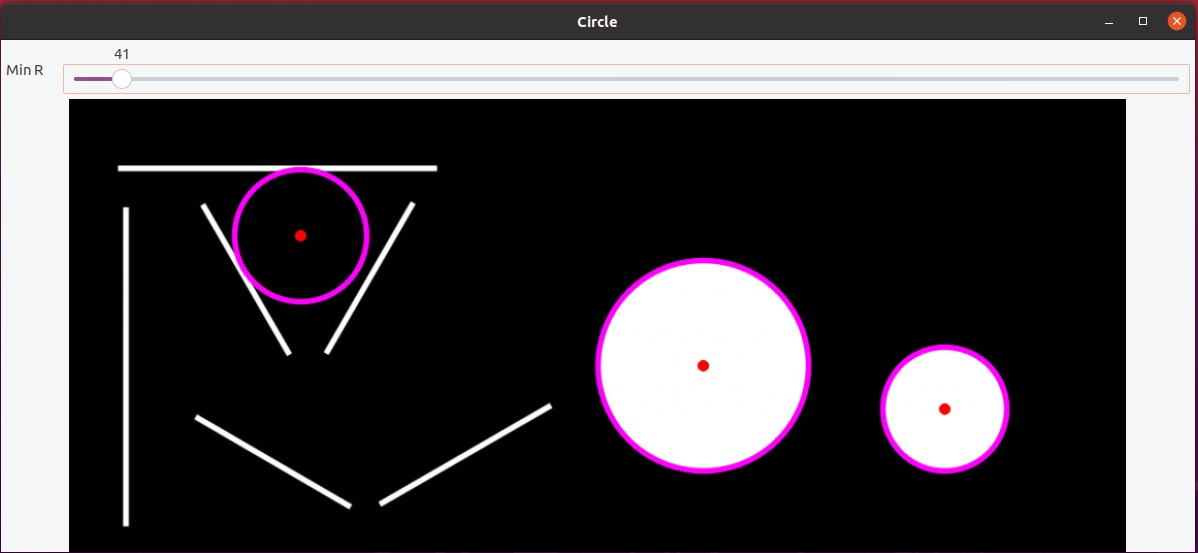
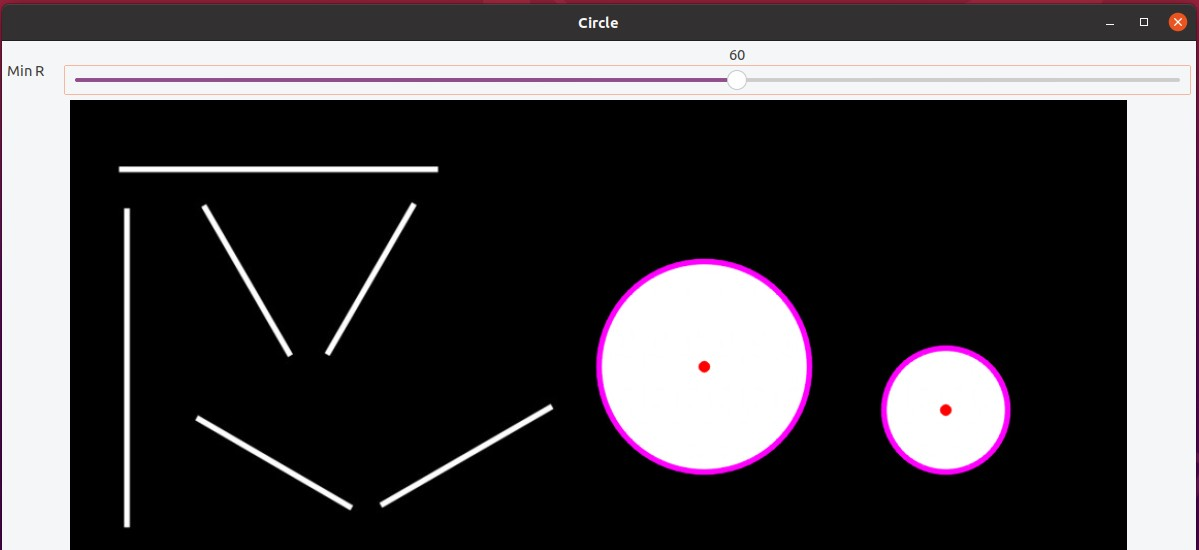
[update] OpenCV/cpp/68_hough_circle_transform.cpp

diff --git a/OpenCV/cpp/68_hough_circle_transform.cpp b/OpenCV/cpp/68_hough_circle_transform.cpp
@@ -37,7 +37,7 @@ void on_circle_change(int position, void*) {
 	cv::cvtColor(grayImage, output, cv::COLOR_GRAY2BGR);
 
 	vector<cv::Vec3f> circles;
-	cv::HoughCircles(grayImage, circles, cv::HOUGH_GRADIENT, 1, 200, 100, 30,min_r); // 使用霍夫轉換來檢測圓
+	cv::HoughCircles(grayImage, circles, cv::HOUGH_GRADIENT, 1, 200, 100, 35, min_r); // 使用霍夫轉換來檢測圓
 
 	 for( size_t i = 0; i < circles.size(); i++ )
 	 {
